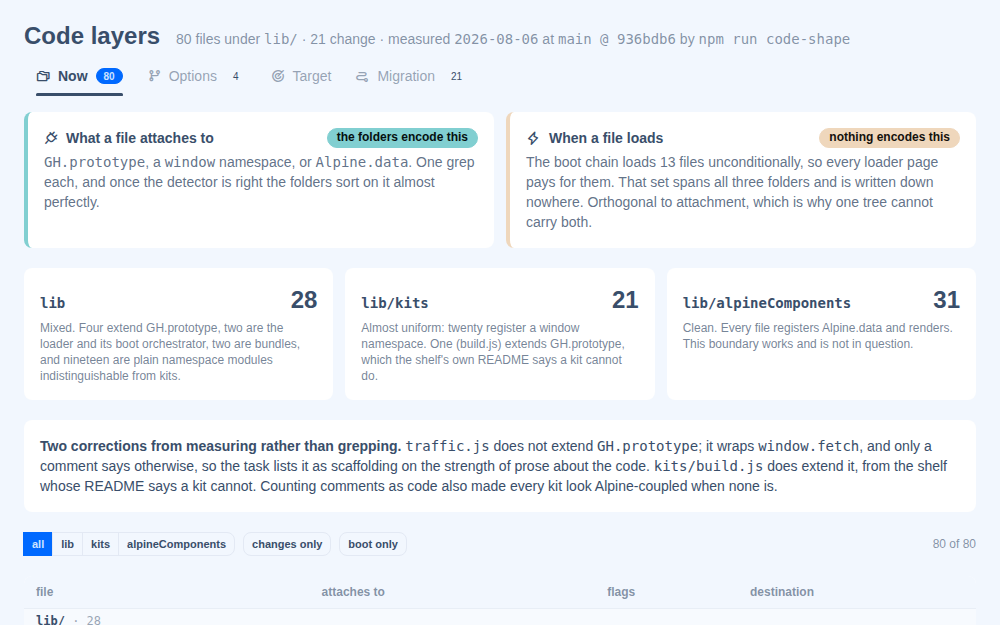
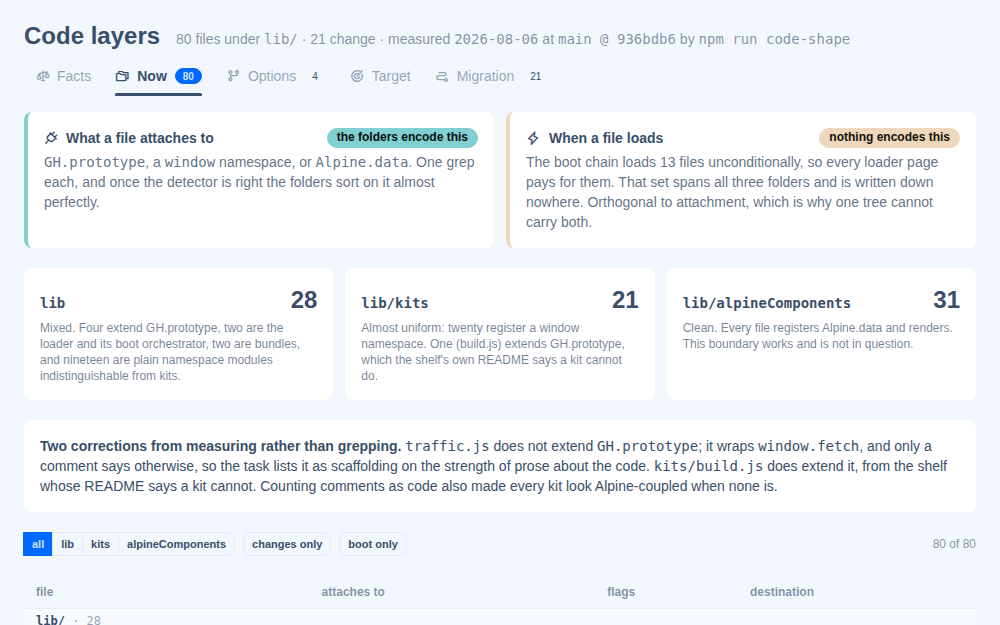
Add the statement of facts as the leading tab
Five tabs now, and the sequence is the opinion's: facts, then the tree as
measured, then what could be done, what is proposed, what it costs. The record
had been distributed across the other four as asides; gathered in one place and
in one register it is also the shortest way to hand someone the history.

Written as a court's statement of facts: third person, past tense, no advocacy.
It never argues, and the closing paragraph declines to decide, which is what lets
the rest read as record rather than as a brief. The recommendation stays in
Options, where a reader can weigh it as one.

The numerals split, and the split is the point. Figures describing the current
tree are bound to the survey data, so re-running it cannot leave the prose
asserting a count the table on the next tab contradicts. Figures describing the
RECORD are hardcoded: seven-of-twenty-one is a fact about what the 2026-08-06
retraction found, not about the tree, and binding it to live data would silently
rewrite history into agreement with the present, which is the failure this whole
guide exists to stop.

Binding them caught something. The third correction had been written as an
arithmetic slip; the bound figure showed the lib/ root count moving from six to
twenty once comments are excluded, because a file's header commonly describes a
dependency the file does not have. That is not a slip, and it runs in the
retraction's favour: the disparity it found is wider than it recorded. The
paragraph now says so.
[…]

Changed region(s): [[0.248, 0.0912, 0.496, 0.152], [0.031, 0.0912, 0.217, 0.152]]

diff --git a/pages/guides/code-layers.html b/pages/guides/code-layers.html
@@ -66,6 +66,90 @@
     </template>
   </div>
 
+  <!-- ══ FACTS ══════════════════════════════════════════════════════ -->
+  <!--
+    The record, in the register of a court's statement of facts: third person,
+    past tense, no advocacy. It never argues, and the closing paragraph declines
+    to decide, which is what lets the rest read as fact rather than as a brief.
+    The recommendation lives in Options, where a reader can weigh it as one.
+
+    Numerals describing the CURRENT tree are bound to the data, so re-running the
+    survey cannot leave the prose asserting a count the table contradicts.
+    Numerals describing the RECORD are hardcoded on purpose: "seven of twenty-one"
+    is a fact about what the 2026-08-06 retraction found, not about the tree, and
+    binding it to live data would silently rewrite history to match the present.
+  -->
+  <div x-show="tab === 'facts'">
+    <div class="bg-base-100 rounded-lg px-6 sm:px-10 py-8 max-w-3xl mx-auto
+                text-[15px] leading-7 text-base-content/90 space-y-4">
+      <h2 class="text-xs font-bold tracking-[0.2em] uppercase text-base-content/50 mb-6">
+        Statement of facts
+      </h2>
+
+      <p>This guide concerns the placement of source files within <span class="mono">lib/</span>,
+      and the rule by which placement is decided.</p>
+
+      <p>The repository loads most of its browser code at runtime through
+      <span class="mono">gh.load</span>. Three directories hold that code.
+      <span class="mono">lib/alpineComponents/</span> holds <span x-text="w(nComponents)"></span>
+      files, each registering an Alpine component. <span class="mono">lib/kits/</span> was
+      established for themed logic libraries, each registering a single namespace on
+      <span class="mono">window</span>, and holds <span x-text="w(nKits)"></span>.
+      <span class="mono">lib/</span> root holds the loader and the chain that boots it, and,
+      accumulated alongside them, <span x-text="w(nStrays)"></span> further files that register
+      a <span class="mono">window</span> namespace and are in that respect indistinguishable
+      from the contents of <span class="mono">lib/kits/</span>.</p>
+
+      <p>On 2026-07-26 a task was opened to move the misfiled files. It identified eight, on the
+      rule then understood: a kit registers a namespace, and scaffolding extends
+      <span class="mono">GH.prototype</span>.</p>
+
+      <p>On 2026-08-06 PR #362 landed <span class="mono">docs/code-layers.md</span>, supplying a
+      further rule: a kit is a capability that would hold in any repository, while a module of
+      the same shape carrying this repository's own domain belongs in
+      <span class="mono">lib/</span> root. The rule was applied to the task's file list that
+      day.</p>
+
+      <p>It was measured that day also. Counting runtime dependencies on the loader, seven of
+      the twenty-one files in <span class="mono">lib/kits/</span> were found unable to travel to
+      another repository, and six files in <span class="mono">lib/</span> root were found to
+      carry no such dependency. The rule was retracted. PR #366, open at this writing, carries
+      the retraction. The task's progress log records that placement is thereafter undecided,
+      and that nothing moves until it is decided.</p>
+
+      <p>No measurement had been offered of what the two folders do sort on. This guide supplies
+      one, and three findings of it correct the record.</p>
+
+      <p><span class="font-semibold">First</span>, <span class="mono">traffic.js</span> does not
+      extend <span class="mono">GH.prototype</span>. It wraps
+      <span class="mono">window.fetch</span>. The claim that it does appears in a comment within
+      the file, and the task adopted it.</p>
+
+      <p><span class="font-semibold">Second</span>, <span class="mono">kits/build.js</span> does
+      extend <span class="mono">GH.prototype</span>, which
+      <span class="mono">lib/kits/README.md</span> states a kit cannot do.</p>
+
+      <p><span class="font-semibold">Third</span>, the earlier counts were taken over the files'
+      comments as well as their code, and a file's header commonly describes a dependency the
+      file does not have. Measured over code alone,
+      <span x-text="w(nKitsHub)"></span> of the <span x-text="w(nKits)"></span> files in
+      <span class="mono">lib/kits/</span> carry a loader dependency, not seven, and
+      <span x-text="w(nRootNoHub)"></span> files in <span class="mono">lib/</span> root carry
+      none, not six. The correction runs in the retraction's favour: the disparity it found is
+      wider than it recorded.</p>
+
+      <p>Two matters are not in dispute. Every file in
+      <span class="mono">lib/alpineComponents/</span> registers
+      <span class="mono">Alpine.data</span>, and that boundary holds without exception. Both
+      remaining folders hold files of one shape: a <span class="mono">window</span> namespace,
+      Alpine-free, pure logic.</p>
+
+      <p>What remains open is whether those two folders are one category, and if so which files
+      move. That question is not resolved here. It is presented, with the measurement, the
+      options, and the cost of each.</p>
+    </div>
+  </div>
+
   <!-- ══ NOW ════════════════════════════════════════════════════════ -->
   <div x-show="tab === 'now'" class="space-y-5">
 
@@ -378,8 +462,30 @@ function guide() {
       this.$watch('tab', v => history.replaceState(null, '', '#tab=' + v));
     },
 
+    // Spelled out, because the statement of facts is prose and "31 files" reads
+    // as a table cell dropped into a sentence. Falls back to the digits above
+    // the range it knows, which is the honest failure: a wrong word would be
+    // worse than a bare numeral.
+    w(n) {
+      const ones = ['zero','one','two','three','four','five','six','seven','eight','nine','ten',
+        'eleven','twelve','thirteen','fourteen','fifteen','sixteen','seventeen','eighteen',
+        'nineteen'];
+      const tens = ['','','twenty','thirty','forty','fifty','sixty','seventy','eighty','ninety'];
+      if (n < 20) return ones[n];
+      if (n < 100) return tens[Math.floor(n / 10)] + (n % 10 ? '-' + ones[n % 10] : '');
+      return String(n);
+    },
+
+    // Bound to the data: these describe the tree as measured.
+    get nKits()       { return this.rows.filter(r => r.layer === 'lib/kits').length; },
+    get nComponents() { return this.rows.filter(r => r.layer === 'lib/alpineComponents').length; },
+    get nStrays()     { return this.rows.filter(r => r.layer === 'lib' && r.moves && r.dest === 'lib/kits/').length; },
+    get nKitsHub()    { return this.rows.filter(r => r.layer === 'lib/kits' && r.hub).length; },
+    get nRootNoHub()  { return this.rows.filter(r => r.layer === 'lib' && !r.hub).length; },
+
     get tabs() {
       return [
+        { id: 'facts',     label: 'Facts',     icon: 'ph-scales',     count: 0 },
         { id: 'now',       label: 'Now',       icon: 'ph-folders',    count: this.rows.length },
         { id: 'options',   label: 'Options',   icon: 'ph-git-branch', count: this.options.length },
         { id: 'target',    label: 'Target',    icon: 'ph-target',     count: 0 },
